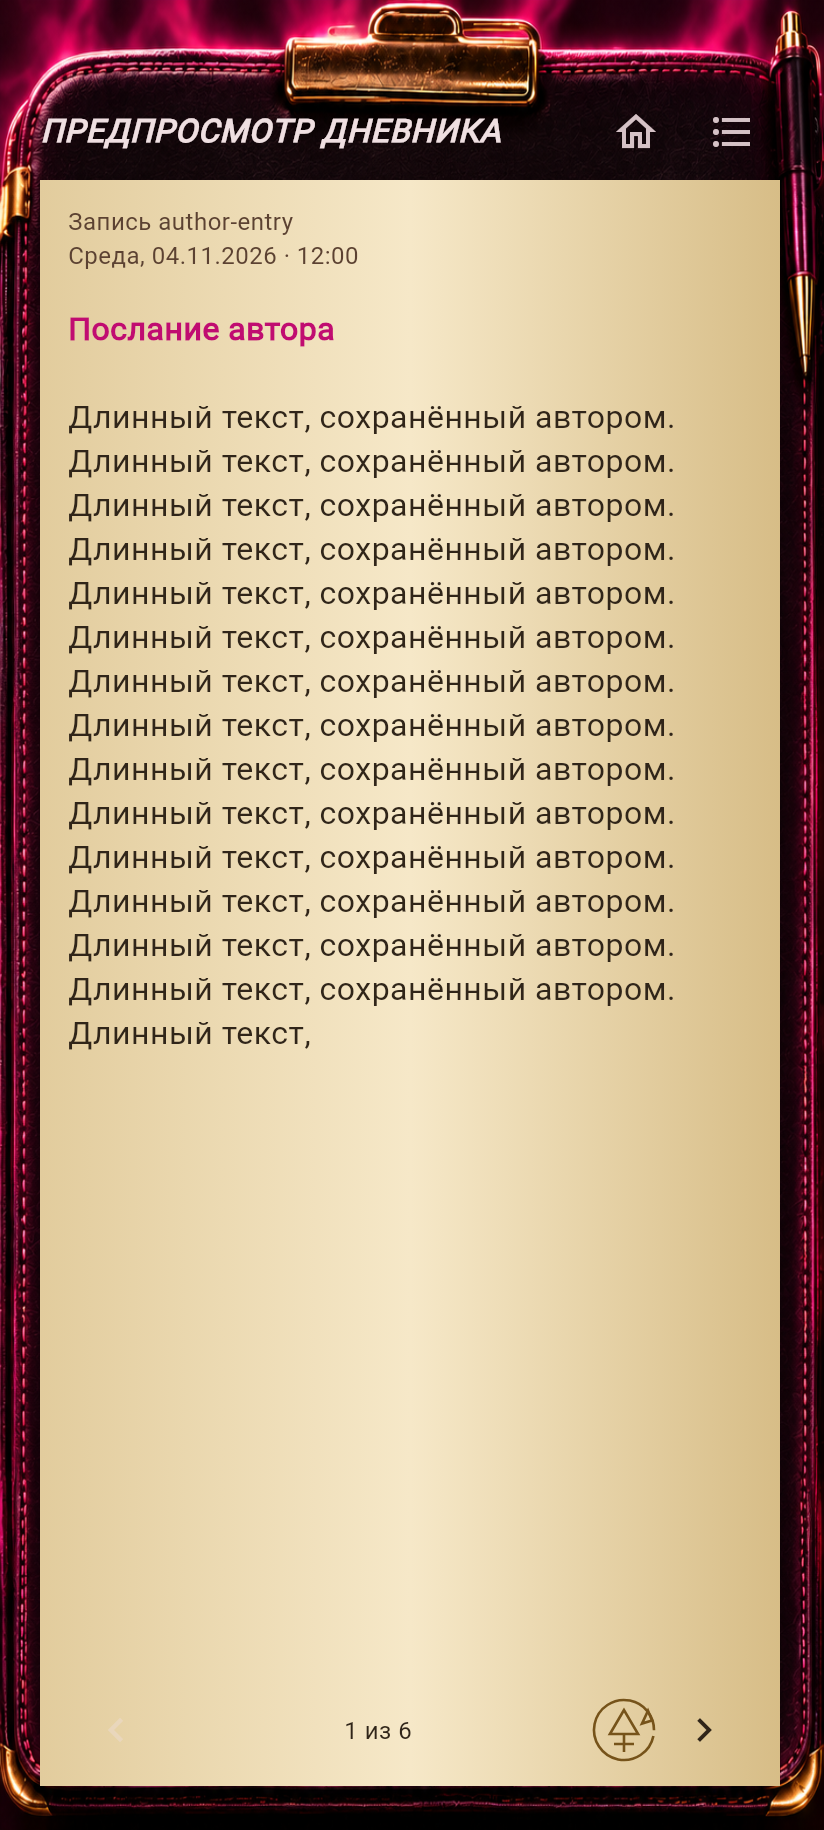
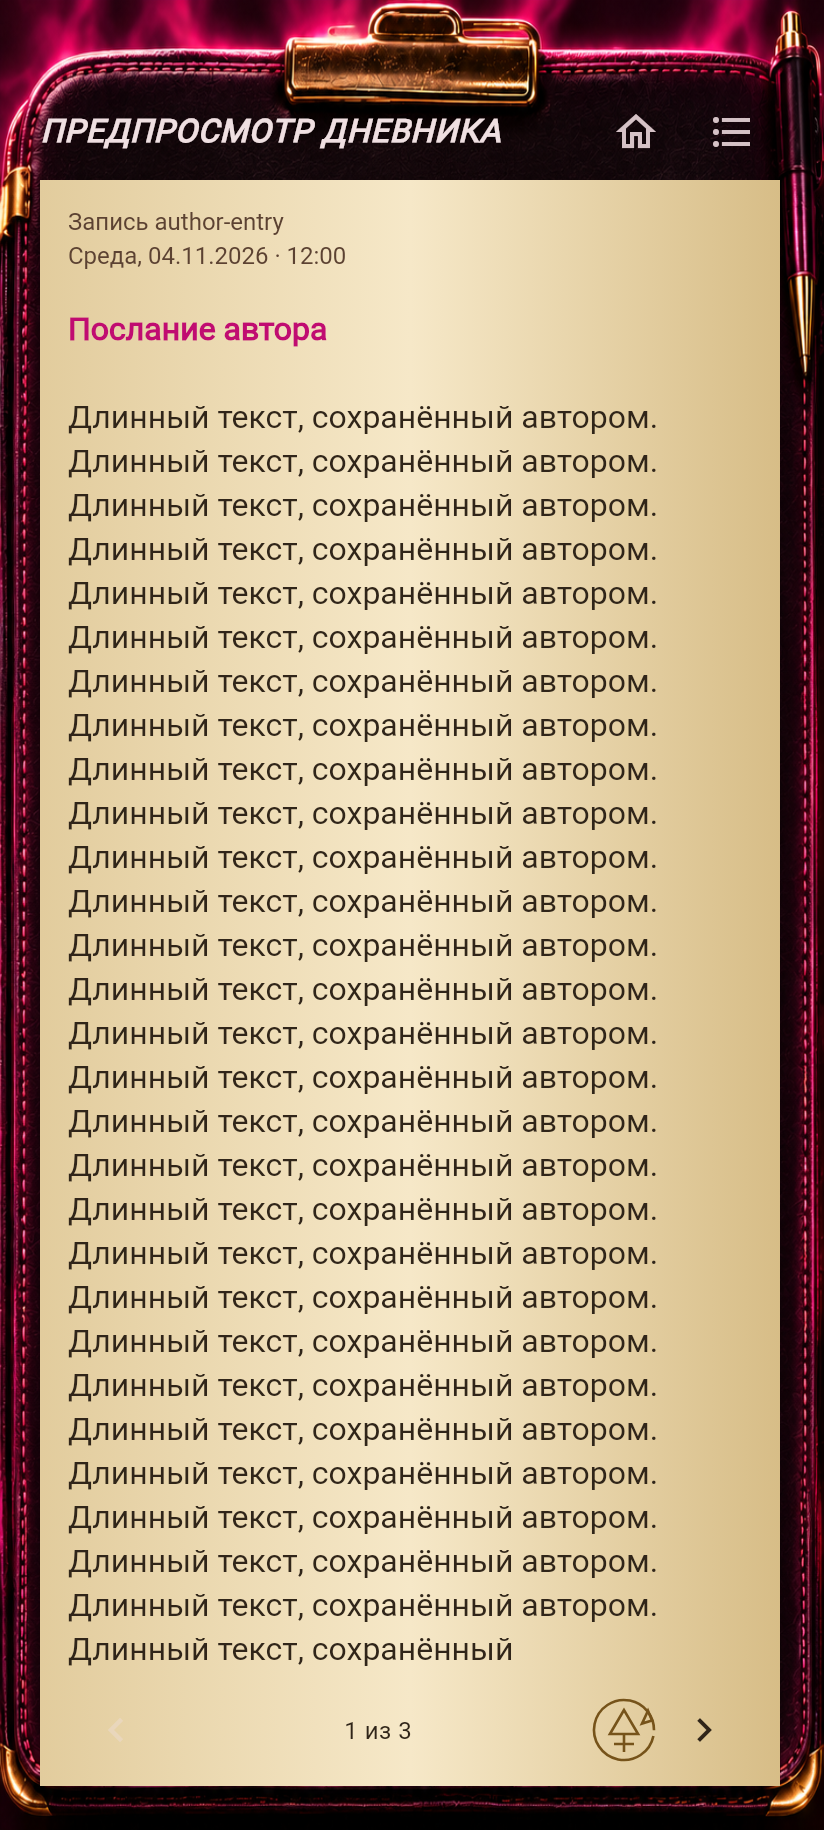
fix: paginate diary using the exact reader font metrics

Changed region(s): [[0.091, 0.218, 0.8192, 0.9033], [0.1214, 0.0934, 0.4248, 0.1869]]

diff --git a/test/v42_diary_test.dart b/test/v42_diary_test.dart
@@ -415,6 +415,12 @@ void main() {
     expect(saved.body, contains('Длинный текст'));
     await capture('diary-author');
     await show(DiaryReader(key: UniqueKey(), entry: saved, preview: true));
+    final textHeight = t
+        .getSize(find.byKey(const ValueKey('diary-page-0')))
+        .height;
+    final viewportHeight = t.getSize(find.byType(SingleChildScrollView)).height;
+    expect(textHeight, lessThanOrEqualTo(viewportHeight + .5));
+    expect(textHeight, greaterThan(viewportHeight - 80));
     await capture('diary-first');
     await t.tap(find.byTooltip('Следующая страница'));
     await t.pumpAndSettle();

diff --git a/lib/ui/diary_screen.dart b/lib/ui/diary_screen.dart
@@ -275,6 +275,10 @@ class _DiaryReaderState extends State<DiaryReader> {
         child: LayoutBuilder(
           builder: (context, box) {
             const style = TextStyle(
+              inherit: false,
+              fontFamily: 'Roboto',
+              fontWeight: FontWeight.normal,
+              letterSpacing: 0,
               fontSize: 16,
               height: 1.4,
               color: Color(0xFF302519),
